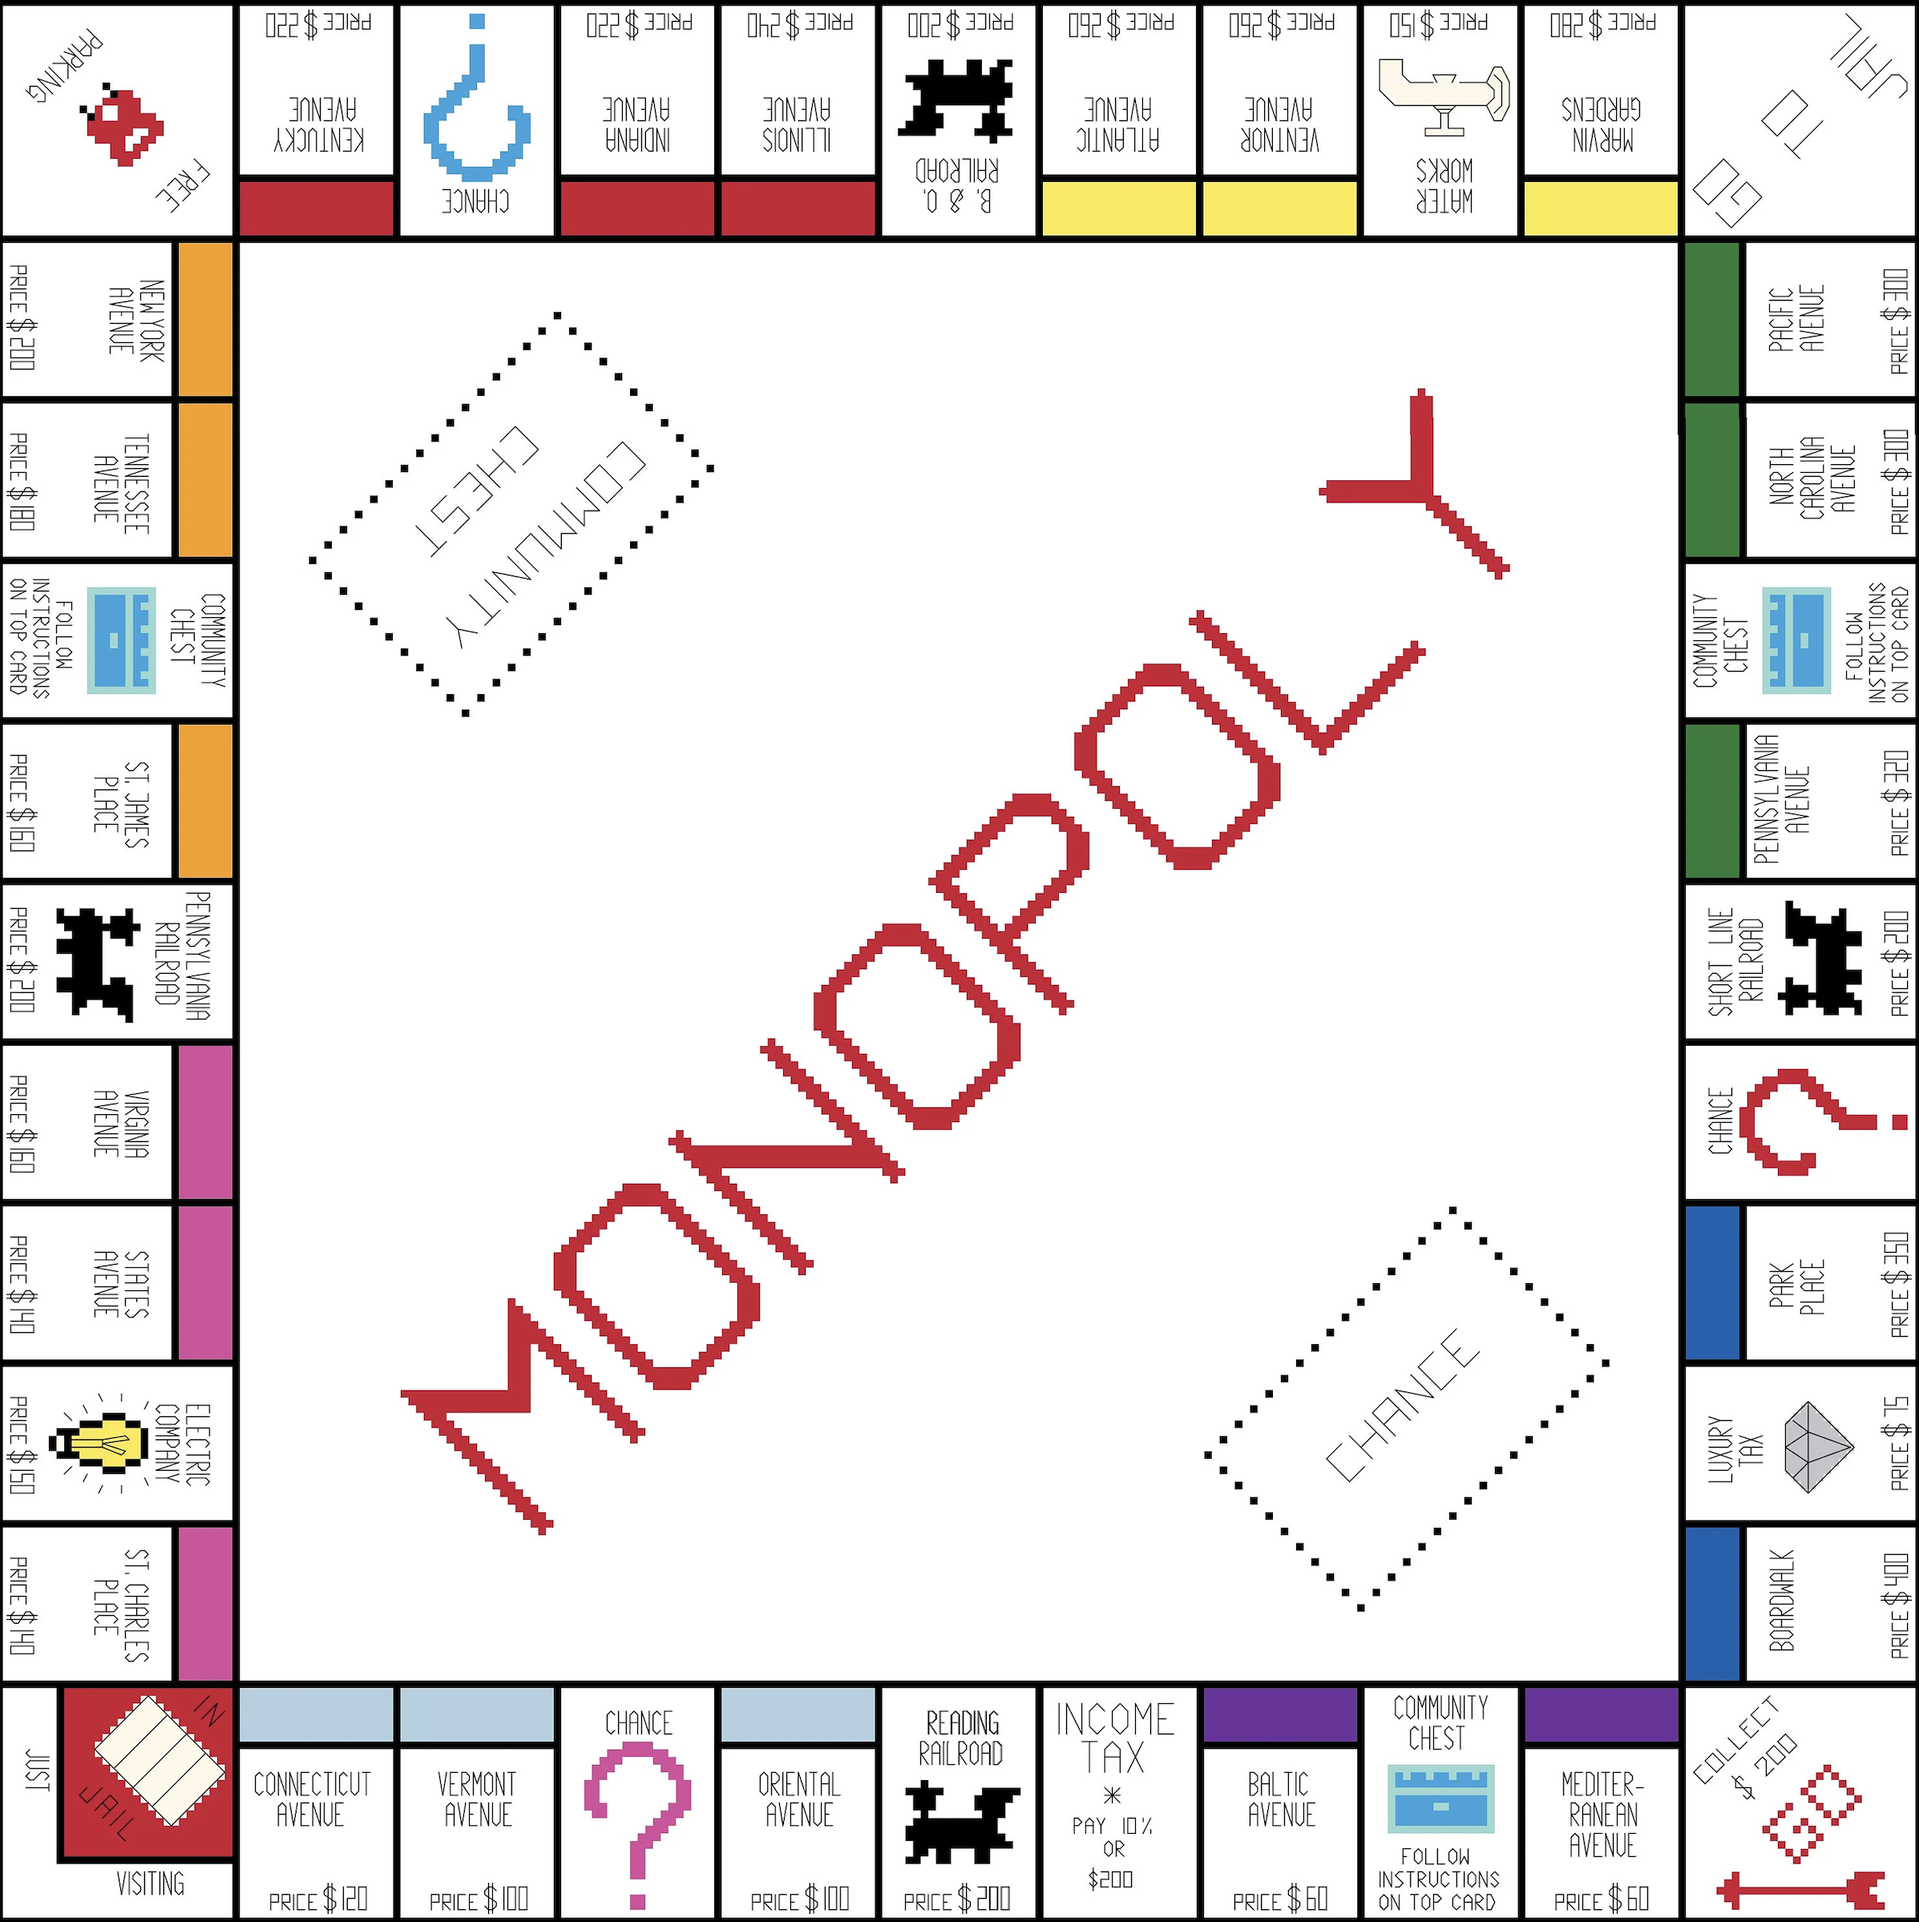
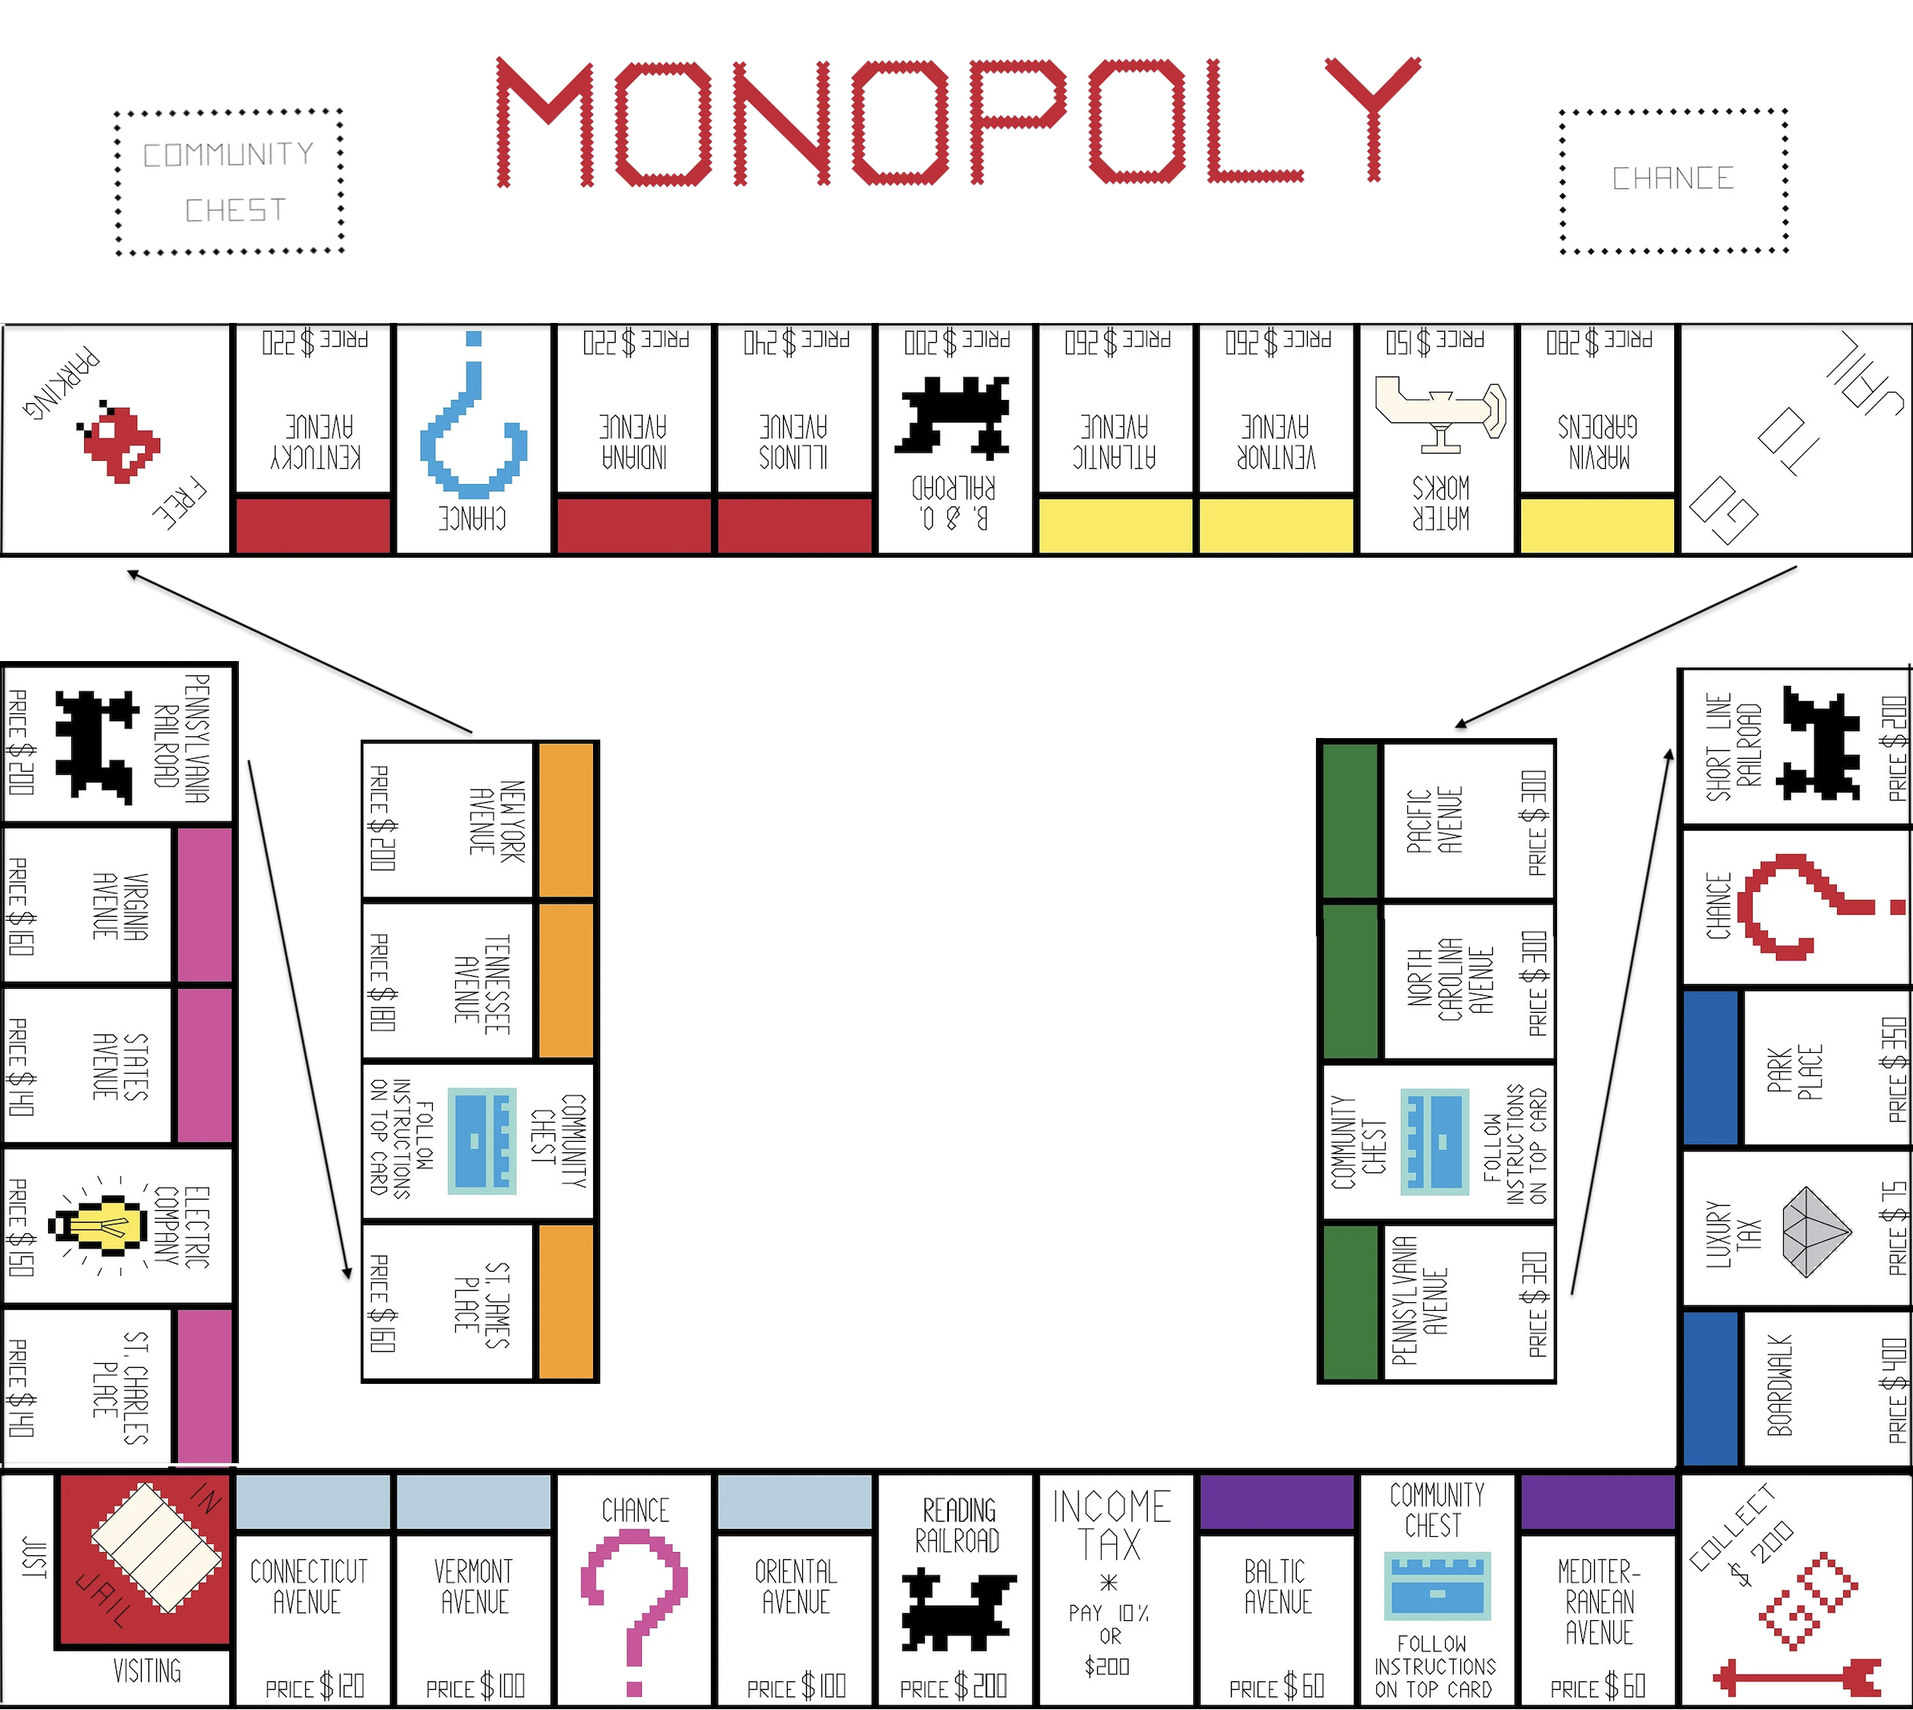
new board layout
rearranged the board to be more flat to fit into a browser better.  added a few more spaces on the board and adjusted all the x:y posiitons.

Changed region(s): [[0.0, 0.0, 1.0, 1.0]]

diff --git a/monopoly/monopoly.js b/monopoly/monopoly.js
@@ -1,71 +1,108 @@
 var boardSpaces = [
     {
+    	propID: 0,
         name: 'GO',
-        leftPos: 925,
-        topPos: 925
+        leftPos: 845,
+        topPos: 613
     },
     {
+    	propID: 1,
         name: 'Mediterranean Avenue',
-        leftPos: 825,
-        topPos: 925
+        leftPos: 738,
+        topPos: 637
     },
     {
+    	propID: 2,
         name: 'Community Chest 1',
-        leftPos: 740,
-        topPos: 925
+        leftPos: 665,
+        topPos: 637
     },
     {
+    	propID: 3,
         name: 'Baltic Avenue',
-        leftPos: 660,
-        topPos: 925
+        leftPos: 592,
+        topPos: 637
     },
     {
+    	propID: 4,
         name: 'Income Tax',
-        leftPos: 580,
-        topPos: 925
+        leftPos: 516,
+        topPos: 637
     },
     {
+    	propID: 5,
         name: 'Reading Railroad',
-        leftPos: 500,
-        topPos: 925
+        leftPos: 442,
+        topPos: 637
     },
     {
+    	propID: 6,
+        name: 'Oriental Avenue',
+        leftPos: 368,
+        topPos: 637
+    },
+    {
+    	propID: 7,
+        name: 'Chance 1',
+        leftPos: 294,
+        topPos: 637
+    },
+    {
+    	propID: 8,
+        name: 'Vermont Avenue',
+        leftPos: 220,
+        topPos: 637
+    },
+    {
+    	propID: 9,
+        name: 'Connecticut Avenue',
+        leftPos: 146,
+        topPos: 637
+    },
+    {
+    	propID: 35,
         name: 'Short Line Railroad',
-        leftPos: 925,
-        topPos: 500
+        leftPos: 812,
+        topPos: 283
     },
     {
+    	propID: 36,
         name: 'Chance 3',
-        leftPos: 925,
-        topPos: 580
+        leftPos: 812,
+        topPos: 349
     },
     {
+    	propID: 37,
         name: 'Park Place',
-        leftPos: 925,
-        topPos: 660
+        leftPos: 812,
+        topPos: 414
     },
     {
+    	propID: 38,
         name: 'Luxury Tax',
-        leftPos: 925,
-        topPos: 740
+        leftPos: 812,
+        topPos: 480
     },
     {
+    	propID: 39,
         name: 'Boardwalk',
-        leftPos: 925,
-        topPos: 820
-    },
+        leftPos: 812,
+        topPos: 546
+    }
 ]
 
 var myPlayer = {
     spaceNumber: 0,
     money: 1000,
-    leftPos: 925,
-    topPos: 925
+    leftPos: 845,
+    topPos: 613
 }
 
 function logPlayerData(){
     var dN = document.getElementById("debug notes");
-    dN.innerHTML = myPlayer.money;
+    dN.innerHTML = '<hr>' +
+                   'Player details: <br>' +
+                   '- Cash = ' + myPlayer.money + 'space # = ' + mPlayer.spaceNumber
 }
 
 

diff --git a/monopoly/index.html b/monopoly/index.html
@@ -1,12 +1,12 @@
 <html>
 <head>
-<title>Simulation - ball movement</title>
+<title>Monopoly</title>
 </head>
 <link rel="stylesheet" href="./style.css">
 <script src="./monopoly.js"></script>
 <body>
 <div>
-<img src="./images/monopolyBoard.png" width="1000" height="1000"/>
+<img src="./images/monopolyBoard.png" width="880" height="700"/>
 <hr>
 <button onclick='movePiece()' width='200' height='30'>MOVE</button>
 <button onclick='update()' width='200' height='30'>Start Game</button>
@@ -14,8 +14,8 @@
 
 <div id="piece" style="z-index: 5;
 position: absolute;
-left: 925px;
-top: 925px;
+left: 845px;
+top: 613px;
 width: 40px;
 height: 40px;
 border-radius: 50%;

diff --git a/README.md b/README.md
@@ -1,1 +1,9 @@
 # monopoly-javascript
+
+Just a little father & son programming activity for fun and learning.
+
+DEFINITELY a work-in-progress, but we are always up for some help.  :)
+
+AFTER you clone (or download) this project, you can start the game with your browser by opening this file directly.
+
+~/monopoly/index.html
